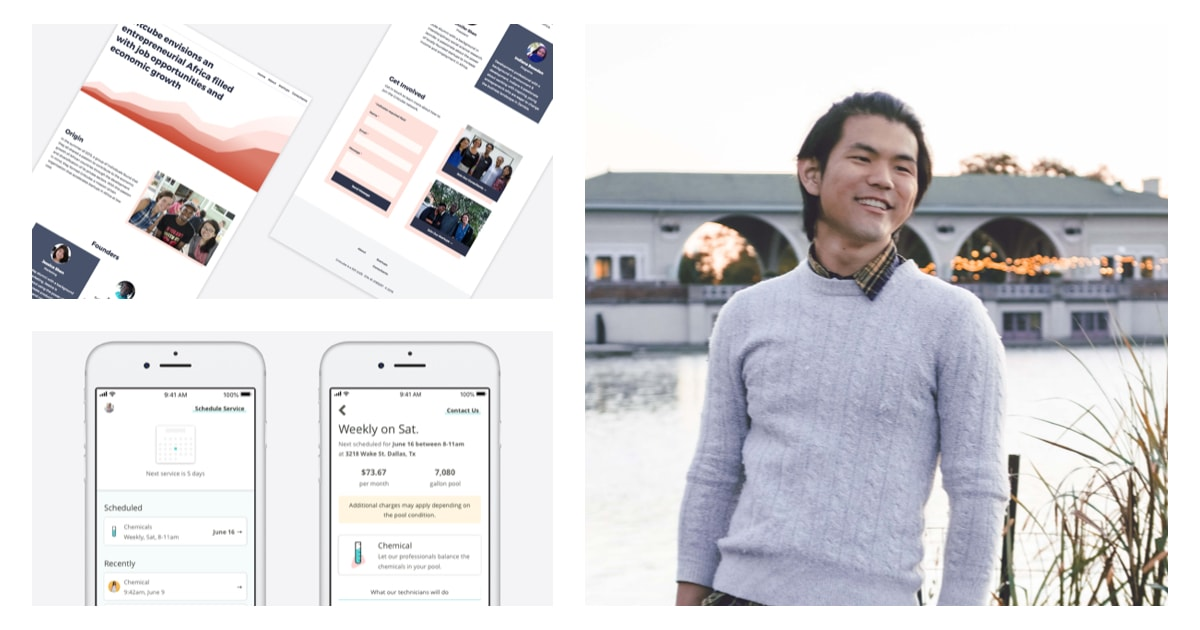
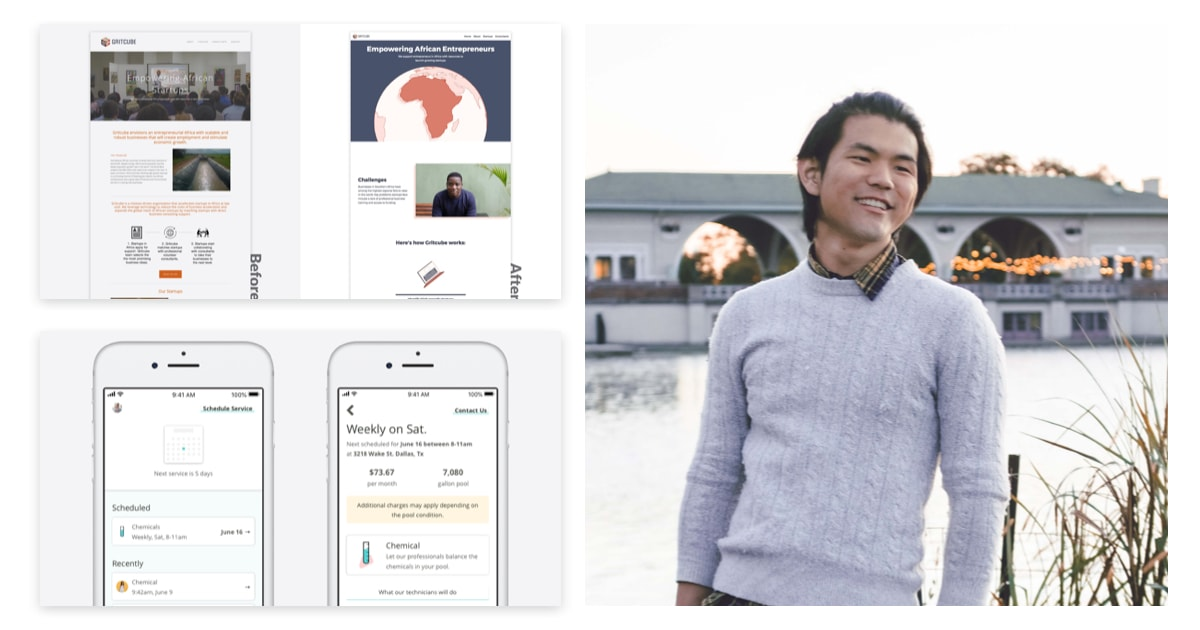
- Updated "Programmer turned designer" description - Updated gritcube and work preview images

diff --git a/about.html b/about.html
@@ -67,10 +67,9 @@
               <section>
                 <h2>Programmer turned designer</h2>
                 <p>
-                My pivot to design occurred after I wanted to expand the way I explore ideas. 
-                I embraced tools which allowed for clearer communication 
-                in the product process and broader ideation in a shorter timeframe. Pursuing design 
-                also shaped me to stay curious and humble. 
+                My pivot to design started with <a href="https://smile.amazon.com/Design-Everyday-Things-Donald-Norman/dp/1452654123?sa-no-redirect=1">The Design of Everyday Things</a>. 
+                I shifted away from a design-equals-aesthetics mentality, and I embraced an empathy-first approach to building products. 
+                I found this approach also benefited communication, collaboration, and creativity.
                 </p>
               </section>
               <section class="description-sectionSpacing">
